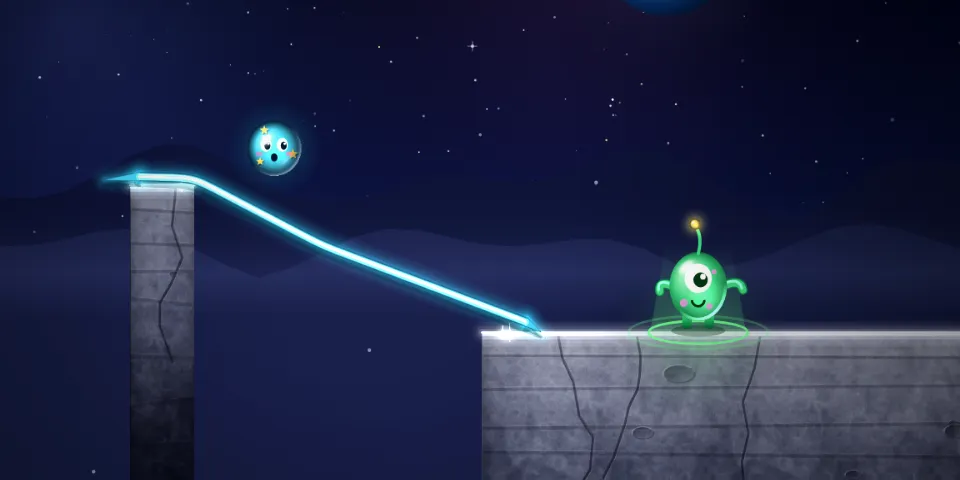
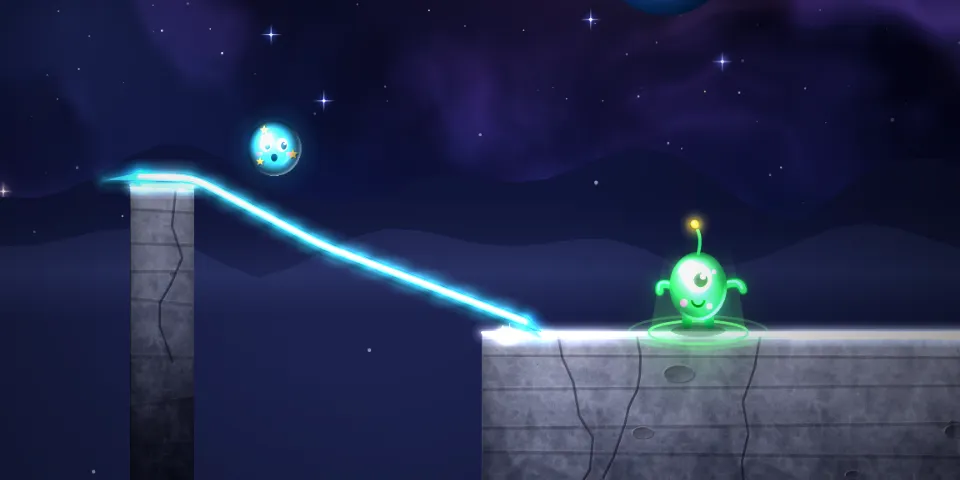
슥슥 우주 다리 시각 품질 7단계: 하늘을 성운 여러 겹으로
비튼 잡음으로 만든 실 같은 성운과 어두운 먼지 띠, 성운 속 밝은 심, 성운을 따라 몰린 별과 십자 빛.
판마다 한 번 미리 그리는 하늘이라 게임 중 속도는 그대로. 첫 화면 카드 그림 다시 찍음.

Claude-Session: https://claude.ai/code/session_01X6YT3m9JDLWYpfeBV7nJca

diff --git a/bridge/js/render.js b/bridge/js/render.js
@@ -8,10 +8,10 @@
 
   // 행성 모양
   const THEME = {
-    moon: { sky: ['#05060f', '#11163a', '#262c5a'], neb: ['rgba(120,140,255,0.20)', 'rgba(255,120,220,0.10)'],
+    moon: { sky: ['#05060f', '#11163a', '#262c5a'], neb: ['rgba(120,140,255,0.20)', 'rgba(255,120,220,0.10)'], nebC: [[60, 90, 230], [150, 70, 210], [255, 150, 230]],
       rock: ['#c4c8da', '#6a6f8a', '#30344a'], rim: '#eef4ff', far: '#1e2346', far2: '#141836', haze: '150,170,255',
       planet: { x: 1030, y: 150, r: 84, c: ['#9fd8ff', '#2f7bd8', '#123a7a'], land: '#4fd68a' }, weather: 'dust', music: 'earth' },
-    mars: { sky: ['#12040a', '#3a0f14', '#7a2a1c'], neb: ['rgba(255,110,80,0.22)', 'rgba(180,70,255,0.14)'],
+    mars: { sky: ['#12040a', '#3a0f14', '#7a2a1c'], neb: ['rgba(255,110,80,0.22)', 'rgba(180,70,255,0.14)'], nebC: [[210, 70, 45], [140, 45, 190], [255, 180, 120]],
       rock: ['#c0553a', '#5a1a12', '#2a0a08'], rim: '#ffb07a', far: '#4a1512', far2: '#2c0b0c', haze: '255,160,120',
       planet: { x: 980, y: 140, r: 46, c: ['#e8dcc8', '#9a8a7a', '#3a3028'], moon2: true }, weather: 'sand', music: 'mars' },
   };
@@ -74,21 +74,93 @@
     g.fillStyle = sh; g.fillRect(x - r, y - r, r * 2, r * 2);
     g.restore();
   }
+  // (2026-11-07 시각 품질 7단계) 성운 여러 겹. 하늘은 판마다 한 번 미리 그리니 게임 중 속도는 그대로.
+  // 값 잡음(value noise)을 여러 겹 쌓은 fbm을 한 번 비틀어(domain warp) 실 같은 성운 모양을 만든다. 모두 판 좌표로 재서 화면 비율이 달라도 같은 자리
+  function vnoise(seed) {
+    const hash = (x, y) => { let t = (x * 374761393 + y * 668265263 + seed * 2147483647) | 0; t = Math.imul(t ^ (t >>> 13), 1274126177); return ((t ^ (t >>> 16)) >>> 0) / 4294967296; };
+    const sm = t => t * t * (3 - 2 * t);
+    const n = (x, y) => {
+      const ix = Math.floor(x), iy = Math.floor(y), fx = sm(x - ix), fy = sm(y - iy);
+      const a = hash(ix, iy), b = hash(ix + 1, iy), c = hash(ix, iy + 1), d = hash(ix + 1, iy + 1);
+      return a + (b - a) * fx + (c - a) * fy + (a - b - c + d) * fx * fy;
+    };
+    return (x, y, oct) => { let v = 0, amp = 0.5, fr = 1, tot = 0; for (let i = 0; i < (oct || 5); i++) { v += n(x * fr, y * fr) * amp; tot += amp; amp *= 0.5; fr *= 2.03; } return v / tot; };
+  }
+  const sstep = (a, b, x) => { const t = Math.max(0, Math.min(1, (x - a) / (b - a))); return t * t * (3 - 2 * t); };
+  function nebulaField(seed) {
+    const F = vnoise(seed), S = 1 / 430;
+    // 성운 밀도 0~1, 색 섞기 0~1, 먼지 띠 0~1
+    return (x, y) => {
+      const px = x * S, py = y * S;
+      const qx = F(px + 1.7, py + 9.2, 4), qy = F(px + 8.3, py + 2.8, 4);
+      const v = F(px + 1.9 * qx, py + 1.9 * qy, 5);
+      const fade = 1 - sstep(330, 560, y);                 // 아래(먼 산 쪽)로 갈수록 옅게
+      const dens = sstep(0.44, 0.86, v) * fade;
+      const mixc = sstep(0.3, 0.7, F(px * 0.7 + 40, py * 0.7 + 13, 3));
+      const dust = sstep(0.52, 0.7, F(px * 2.2 + 70, py * 2.2 + 5, 4)) * sstep(0.35, 0.6, v) * fade;
+      return [dens, mixc, dust];
+    };
+  }
+  function paintNebula(g, T, x0, y0, x1, y1, field) {
+    const [c1, c2, c3] = T.nebC, NW = 360, NH = Math.max(8, Math.round(NW * (y1 - y0) / (x1 - x0)));
+    const lit = canvas(NW, NH), dk = canvas(NW, NH), gl = lit.getContext('2d'), gd = dk.getContext('2d');
+    const A = gl.createImageData(NW, NH), B = gd.createImageData(NW, NH), a = A.data, b = B.data;
+    for (let j = 0; j < NH; j++) for (let i = 0; i < NW; i++) {
+      const x = x0 + (i + 0.5) / NW * (x1 - x0), y = y0 + (j + 0.5) / NH * (y1 - y0);
+      const [d, m, du] = field(x, y), core = d * d * d, k = (j * NW + i) * 4;
+      const lum = d * 0.75 * (1 - du * 0.85);
+      a[k] = Math.min(255, (c1[0] + (c2[0] - c1[0]) * m) * lum + c3[0] * core * 0.45);
+      a[k + 1] = Math.min(255, (c1[1] + (c2[1] - c1[1]) * m) * lum + c3[1] * core * 0.45);
+      a[k + 2] = Math.min(255, (c1[2] + (c2[2] - c1[2]) * m) * lum + c3[2] * core * 0.45);
+      a[k + 3] = 255;
+      b[k] = 4; b[k + 1] = 3; b[k + 2] = 10; b[k + 3] = Math.round(du * 120);
+    }
+    gl.putImageData(A, 0, 0); gd.putImageData(B, 0, 0);
+    g.save(); g.imageSmoothingEnabled = true;
+    g.globalCompositeOperation = 'source-over'; g.drawImage(dk, x0, y0, x1 - x0, y1 - y0);   // 먼지 띠: 바탕을 어둡게
+    g.globalCompositeOperation = 'lighter'; g.globalAlpha = 0.62; g.drawImage(lit, x0, y0, x1 - x0, y1 - y0);   // 성운 빛: 더하기
+    g.restore();
+  }
   function paintSky(g, T, w, h, f) {
     const gr = g.createLinearGradient(0, 0, 0, h);
     gr.addColorStop(0, T.sky[0]); gr.addColorStop(0.55, T.sky[1]); gr.addColorStop(1, T.sky[2]);
     g.fillStyle = gr; g.fillRect(0, 0, w, h);
     g.save(); g.translate(f.ox, f.oy); g.scale(f.k, f.k);
     const x0 = -f.ox / f.k, x1 = (w - f.ox) / f.k, y0 = -f.oy / f.k, y1 = (h - f.oy) / f.k;
+    // 1겹: 넓고 옅은 빛 두 덩이 (예전 그대로)
     glowDot(g, VW * 0.22, VH * 0.3, 560, T.neb[0]);
     glowDot(g, VW * 0.72, VH * 0.18, 480, T.neb[1]);
+    // 2겹: 비튼 잡음 성운 + 어두운 먼지 띠
+    const field = nebulaField(T === THEME.mars ? 5 : 3);
+    paintNebula(g, T, x0, y0, x1, y1, field);
+    // 3겹: 성운 속 밝은 심 몇 개 (가산 혼합)
+    g.save(); g.globalCompositeOperation = 'lighter';
+    const rc = BR.rng(31), c3 = T.nebC[2];
+    for (let i = 0, put = 0; i < 400 && put < 5; i++) {
+      const x = x0 + rc() * (x1 - x0), y = y0 + rc() * Math.min(420 - y0, y1 - y0), [d] = field(x, y);
+      if (d < 0.6) continue;
+      put++;
+      glowDot(g, x, y, 70 + rc() * 70, VC.rgba(c3, 0.05 + 0.05 * d));
+      glowDot(g, x, y, 18 + rc() * 14, 'rgba(255,255,255,' + (0.04 + 0.05 * d).toFixed(3) + ')');
+    }
+    g.restore();
+    // 4겹: 별. 성운이 짙은 곳에 더 많고, 먼지 띠 속은 드물다. 밝은 별 몇 개는 색 번짐과 십자 빛
     const rnd = BR.rng(7);
-    const n = Math.round(240 * (x1 - x0) * (y1 - y0) / (VW * VH));
+    const n = Math.round(420 * (x1 - x0) * (y1 - y0) / (VW * VH));
     for (let i = 0; i < n; i++) {
-      const x = x0 + rnd() * (x1 - x0), y = y0 + rnd() * (y1 - y0) * 0.85, big = rnd() < 0.07, r = big ? 2.2 : rnd() * 1.3 + 0.3;
-      g.globalAlpha = 0.35 + rnd() * 0.65; g.fillStyle = rnd() < 0.2 ? '#ffe9b0' : '#eaf6ff';
+      const x = x0 + rnd() * (x1 - x0), y = y0 + rnd() * (y1 - y0) * 0.85, big = rnd() < 0.05, r = big ? 2 : rnd() * 1.2 + 0.3;
+      const al = 0.35 + rnd() * 0.65, warm = rnd() < 0.2, [d, , du] = field(x, y);
+      if (rnd() > 0.3 + 0.7 * d * (1 - du)) continue;
+      g.globalAlpha = al * (1 - du * 0.7); g.fillStyle = warm ? '#ffe9b0' : '#eaf6ff';
       g.beginPath(); g.arc(x, y, r, 0, TAU); g.fill();
-      if (big) { g.globalAlpha = 0.5; g.fillRect(x - 6, y - 0.5, 12, 1); g.fillRect(x - 0.5, y - 6, 1, 12); }
+      if (big) {
+        g.save(); g.globalCompositeOperation = 'lighter'; g.globalAlpha = 1;
+        glowDot(g, x, y, 14, warm ? 'rgba(255,200,120,0.35)' : VC.rgba(T.nebC[0], 0.45));
+        const lx = g.createLinearGradient(x - 14, 0, x + 14, 0); lx.addColorStop(0, 'rgba(255,255,255,0)'); lx.addColorStop(0.5, 'rgba(255,255,255,0.7)'); lx.addColorStop(1, 'rgba(255,255,255,0)');
+        const ly = g.createLinearGradient(0, y - 14, 0, y + 14); ly.addColorStop(0, 'rgba(255,255,255,0)'); ly.addColorStop(0.5, 'rgba(255,255,255,0.7)'); ly.addColorStop(1, 'rgba(255,255,255,0)');
+        g.fillStyle = lx; g.fillRect(x - 14, y - 0.6, 28, 1.2); g.fillStyle = ly; g.fillRect(x - 0.6, y - 14, 1.2, 28);
+        g.restore();
+      }
     }
     g.globalAlpha = 1;
     bigPlanet(g, T.planet);

diff --git a/HANDOFF.md b/HANDOFF.md
@@ -10,6 +10,7 @@
 - **시각 품질 4단계 축하 연출 (2026-11-07, 같은 브랜치, 소유자 지시. 같이 지시한 달 1판 가이드 손가락은 소유자가 빼라고 함)**: 친구와 만나면 `main.js`가 부르던 `RD.fx('confetti')`를 그림 쪽에서 축하 연출로 바꿈(`render.js` `cheer`·`drawRings`, main.js 무변경): 화면 0.05초 흔들림(하늘은 두고 땅과 물건만, 입력 좌표는 그대로), 번쩍임 + 빛의 파동 고리 셋(초록·노랑·분홍, 0.12초 간격), 별빛 36·불꽃 30·빛 가루 16. 예전 납작한 색종이 60장은 안 씀. 결과 창은 그대로 1.4초 뒤에 열리고 아래에서 떠오르며 살짝 통통(`style.css` `clearUp`, 움직임 줄이기면 흐릿하게 나타남만). 움직임 줄이기면 흔들림 없음·고리 하나·알갱이 40%
 - **시각 품질 5단계 시소와 상자 (2026-11-07, 같은 브랜치, 소유자 지시: 두꺼운 남색 테두리 걷기)**: `bridge/js/render.js` `crate`·`plank`와 `paintTerrain`의 시소 받침만 다시 씀(모양·크기·자리는 규칙 그대로). 상자는 어두운 유리 패널: 남흑색 몸통·한 단 들어간 안쪽 판·빛나는 호박색 경고 줄무늬(자리 그대로)·왼쪽 위 유리 반사 띠·가는 하늘색 빛 테·모서리 유리 구슬 못. 시소 판은 어두운 유리 막대: 위 반사 빛줄·안쪽 푸른 심·가는 빛 테·양 끝 분홍 발판이 빛남, 받침 못은 금빛 유리 구슬. 받침 세모는 어두운 금속에 빛 받는 왼쪽 면과 빛 테. 크기마다 한 번 미리 그린 그림 두 장(본체 + 가산 혼합 빛, `objSprite`)을 매 프레임 돌려 찍기만 해서 shadowBlur 없음. 이 둘을 쓰는 판은 화성 2판(시소)·4판(상자)뿐이고 첫 화면 카드 그림(달 3판)은 안 바뀌어 다시 찍지 않음. 저장본 번호는 `bridge-v4` 그대로(main에 아직 안 올라감). 시험 11개 파일 통과, 1280×800·893×533 화면 확인·콘솔 오류 0. 소유자 확인: 시소 판의 푸른 빛과 하늘색 펜 선은 헷갈리지 않음
 - **시각 품질 6단계 화면 전체 빛 번짐 (2026-11-07, 같은 브랜치, 소유자 지시: 남은 것 순서대로)**: `bridge/js/render.js` `bloom`(그림만, `draw` 끝 테두리 어둡게 바로 앞). 다 그린 화면을 1/4로 줄여 자기 자신과 세 번 곱해(multiply, 밝기 8제곱) 밝은 것만 남기고, 1/8·1/16로 더 줄여 원래 크기로 늘려 가산 혼합으로 얹는다(세기 `BR.Render.bloom.k` 0.7). shadowBlur·filter·getImageData 없음. 선·공·친구·땅 윗면 빛 테·별이 번지고 어두운 하늘과 바위 중간 밝기는 거의 그대로. 느린 기기 절약: 3초 뒤 최근 2초 평균 프레임이 1/50초보다 길면 끄고 페이지를 다시 열 때까지 끈 채(`bloom.auto`·`bloom.on`, 스크린샷 때는 `auto = false`). 헤드리스(그래픽 카드 없음) 1280×800에서 한 장 그리기 약 4.5ms에서 15ms로 늘어남(893×533은 3ms에서 8ms). 갤럭시탭은 그래픽 카드로 그려 훨씬 덜 들 것으로 보지만 재 보지 못함. 첫 화면 카드 그림은 다시 찍지 않음. 시험 11개 파일·화면 흐름 76 통과, 두 화면 크기 확인·콘솔 오류 0. 미리보기 갱신함(아래 주소, 5·6단계 포함). 실기기에서 볼 것: 탭 A7 Lite에서 끊김이 생기는지, 친구 얼굴이 빛에 바래 보이지 않는지
+- **시각 품질 7단계 하늘 성운 여러 겹 (2026-11-07, 같은 브랜치, 소유자 지시)**: `bridge/js/render.js` `paintSky`에 겹을 더함(판마다 한 번 미리 그리는 하늘이라 게임 중 속도는 그대로). 1겹 예전 넓은 빛 두 덩이, 2겹 값 잡음을 쌓고 한 번 비튼 실 같은 성운(`vnoise`·`nebulaField`·`paintNebula`, 360px 폭 한 장을 늘려 그림, 아래 먼 산 쪽으로 옅어짐)과 바탕을 어둡게 하는 먼지 띠, 3겹 성운 속 밝은 심 다섯, 4겹 별(성운 짙은 곳에 많고 먼지 띠 속은 드묾, 밝은 별은 색 번짐과 십자 빛). 색은 테마 `nebC`(달 파랑·보라·분홍, 화성 주황빨강·보라·살구). 처음 세기는 공과 선을 가려서 낮춤. 하늘 다시 그리기 약 13ms에서 70~80ms(헤드리스, 같은 행성·화면 크기면 다시 안 그림). 첫 화면 카드 그림을 `node tools/thumbs.js bridge`로 다시 찍음. 시험 11개 파일·화면 흐름 76 통과, 두 화면 크기 확인·콘솔 오류 0. 미리보기 갱신함. 실기기에서 볼 것: 성운이 거슬리지 않는지·더 진하게 할지, 판을 열 때 잠깐 멈칫하는지
 
 - **그리기 횟수 바로잡기 (2026-09-30, main에 합침, 소유자: 끊김이 "지장이 있는정도는 아니야", 기기와 상관없는 두 문제는 "그렇게 작업하자")**: 교통정리 세션이 태블릿 끊김을 물어 와 코드를 읽어 봄. 그림자 번짐(`shadowBlur`)은 다섯 게임 모두 미리 그리는 그림 안에만 있어 원인이 아님. 기기와 상관없이 덜 매끄럽던 것 둘을 고침: 슝슝 우주 달리기·슥슥 우주 다리는 60번에 맞춘 최소 간격(`MIN_FRAME`)으로 걸러 90Hz 화면에서 1초에 45번만 그렸고, 뿅뿅 우주선은 제한이 없어 120Hz 화면에서 120번 그렸다. 세 게임 `main.js`에 통통 점프와 같은 화면 주사율 살피기(`fastScreen`·`skip`)를 넣어 100Hz가 넘는 화면만 한 번씩 거른다. 건너뛴 장면의 시간은 다음 장면에 모여 게임 빠르기는 그대로. 가짜 시계로 잰 1초 그리기 수(60·90·120Hz): 고치기 전 뿅뿅 60·90·120, 달리기와 다리 60·45·60, 고친 뒤 다섯 게임 모두 60·90·60, 콘솔 오류 0 (설치된 크롬을 화면 없이 띄워 파일로 열고 CDP로 `requestAnimationFrame`을 가짜 시계로 바꿔 셈). 보조 에이전트 검토에서 정확성 문제 없음, 짚은 한 가지(뿅뿅 우주선이 120Hz 화면에서 창 크기가 바뀐 직후 장면을 거르면 한 장 빈 화면)는 `resize`에서 `skip = true`로 다음 장면을 거르지 않게 막음(크기 바꾼 직후 그림 20/20). 끊김 재기 표시와 가벼운 모드는 소유자 판단으로 하지 않음. `ngun-v22`·`runner-v15`·`bridge-v3`
 - **뚝딱 로봇카 폐기 확정 (2026-09-30, main에 합침, 소유자: "로봇카는 이미 폐기되었어 그부분부터 명확히 하고 가야되" 뒤 추천안)**: 2026-09-27 소유자 원문은 "자동차 폐기, 폴더 구성 폐기나 보류로 이동"이었는데 그때 세션이 보류로 적어, 문서 곳곳에 되살릴 수 있다는 문장과 로봇카에만 있던 장치(자동 화질 `view.q` 등)가 지금 게임 규칙처럼 남아 있었다. 코드 폴더 `archive/`(파일 45개, 약 0.8MB)를 저장소에서 빼고(git 기록에 남음, PC 사본 `C:\Users\user\Claude\Projects\game\_삭제보관\ppgame_archive_20260930`, 최종 삭제는 소유자), `CLAUDE.md`·`README.md`·이 문서의 보류 문장·되살리기 안내·로봇카 시험·로봇카 파일 표·로봇카 전용 절대 규칙(옛 4번, 뒤 번호 하나씩 당김)·로봇카 할 일을 뺐다. 성능 원칙은 지금 다섯 게임에 실제로 있는 장치로 다시 썼다. 절대 규칙 유아틱하지 않게(지금 4번)는 다섯 게임에도 지킨다(소유자 확인). 지난 기록 줄(버전 기록·결정 기록)은 있었던 일이라 그대로 둠. 게임 코드는 로봇카를 부르는 곳이 없어 고친 곳 없음
@@ -136,7 +137,7 @@
 
 - **(2026-11-07) 시각 품질 작업 이어서 하기 (브랜치 `claude/vfx-261107`, main에 안 합침)**. 소유자가 정한 방향: 어두운 우주·유리 광택·다중 그라데이션·가산 혼합 빛 번짐, 픽셀 아트 아님, 규칙·점수·물리 판정·시험에 걸린 코드는 한 줄도 안 바꾸고 그림만. 한 번에 소유자가 지시한 연출 하나씩.
   1. 소유자가 갤럭시탭에서 미리보기(https://claude.ai/artifact/JBvnki5H8B6nBAPY98pu2N)를 해 보고 반응 전달: 그리는 선 맥박·손끝 불꽃, 공 찌그러짐 세기, 땅 질감, 축하 연출, 탭 A7 Lite 속도. 미리보기는 `bridge/index.html`의 css·js를 한 파일로 묶어 올림(집 버튼은 안 됨, 기록은 미리보기 안에만)
-  2. 슥슥 우주 다리에 남은 것 (세션 추천 순서, 시소·상자 테두리 걷기는 5단계, 화면 전체 빛 번짐은 6단계로 끝남): 하늘 배경(성운 여러 겹) · 공 얼굴(큰 흰 눈·분홍 볼이 규칙 4와 어긋남) · 힌트 점선과 손 그림(흰 점선·굵은 갈색 테두리 손, 소유자가 이번에 뺀 달 1판 가이드 손가락도 여기서) · 말풍선·하트·먼지 · 스프링 · 시작 화면 행성 카드·패널
+  2. 슥슥 우주 다리에 남은 것 (세션 추천 순서, 시소·상자 테두리 걷기는 5단계, 화면 전체 빛 번짐은 6단계, 하늘 성운은 7단계로 끝남): 공 얼굴(큰 흰 눈·분홍 볼이 규칙 4와 어긋남) · 힌트 점선과 손 그림(흰 점선·굵은 갈색 테두리 손, 소유자가 이번에 뺀 달 1판 가이드 손가락도 여기서) · 말풍선·하트·먼지 · 스프링 · 시작 화면 행성 카드·패널
   3. 다른 네 게임에 `common/vfx.js` 적용 (붙일 때 그 게임 `index.html` script와 `sw.js` FILES·VERSION 함께)
   4. main 합치기는 소유자가 요청할 때만
 - 참고 자료 (2026-11-07): 소유자가 준 참고 그림 다섯 장 중 쓸 것은 네온 볼(공), 주황 네온 뱀(냠냠 뱀 몸통·각진 머리·고리 먹이), 초록 레이저 터널(달리기). 픽셀 아트 두 장은 쓰지 않음. 유료 그림 사이트·다른 게임 화면은 분위기만 참고
